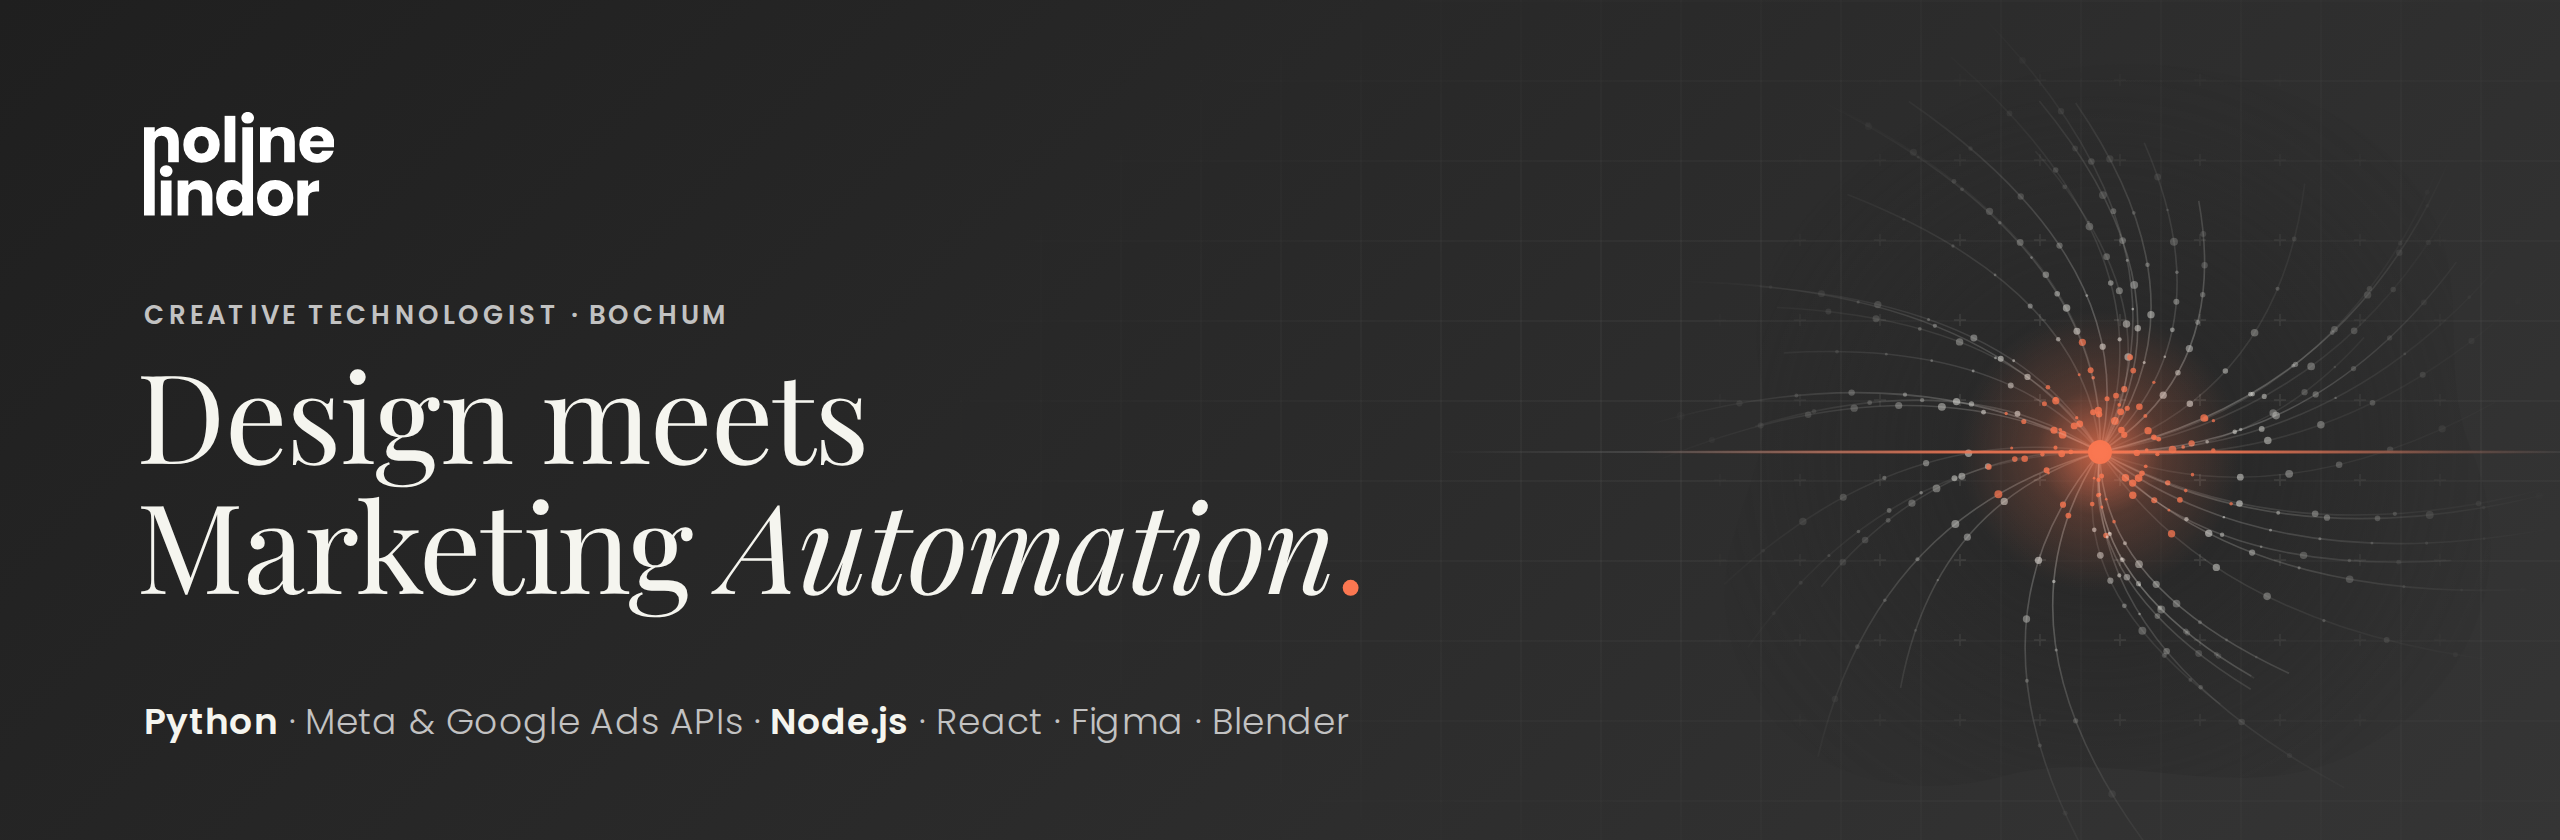
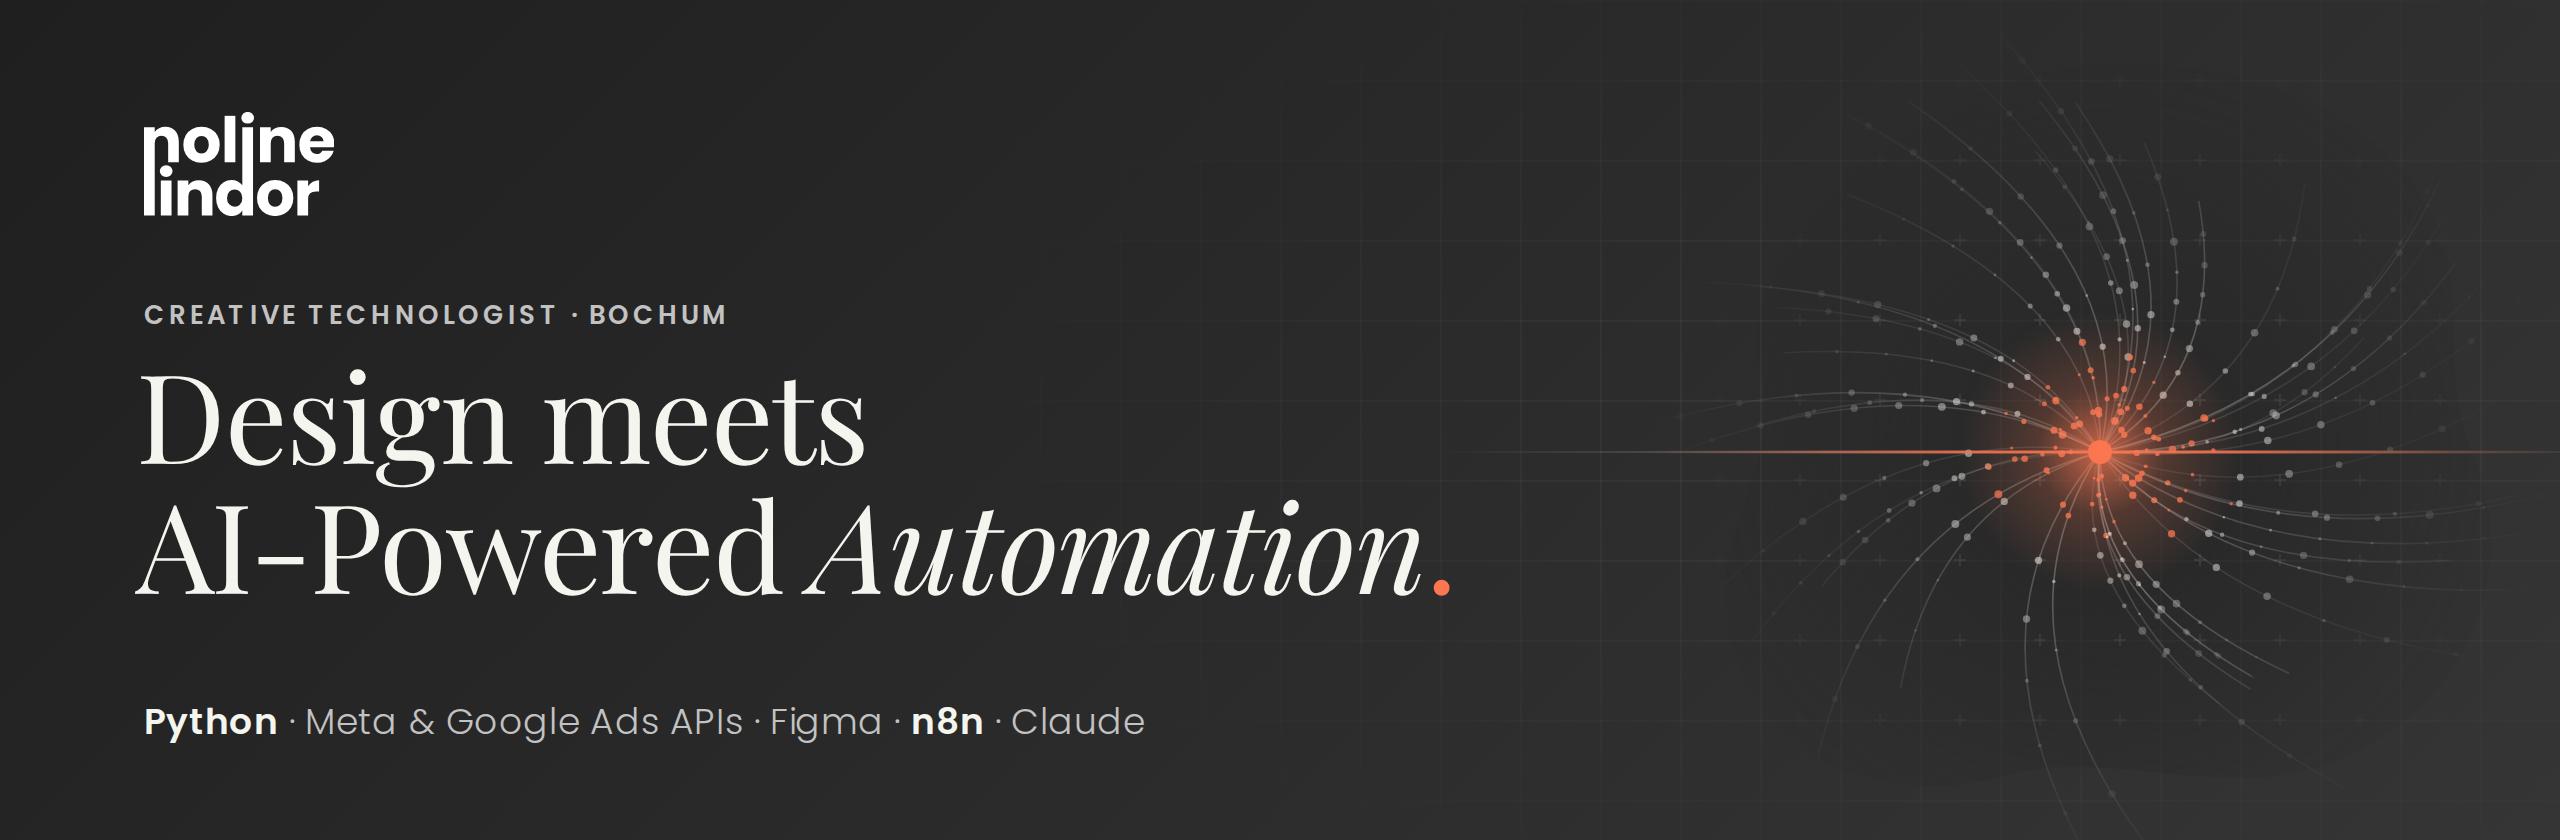
Align with LinkedIn: AI-powered automation tagline, n8n and Claude
Claude-Session: https://claude.ai/code/session_011B9ia6FtYiGRthk6BLN5fP

Changed region(s): [[0.0312, 0.5881, 0.5625, 0.7429], [0.2812, 0.8357, 0.5312, 0.8976]]

diff --git a/README.md b/README.md
@@ -1,8 +1,8 @@
-<img src="assets/banner.png" alt="noline lindor · Design meets Marketing Automation." width="100%">
+<img src="assets/banner.png" alt="noline lindor · Design meets AI-Powered Automation." width="100%">
 
 <br>
 
-I build systems that replace manual marketing work. My background is design, my tool is code: Python automations on the Meta Marketing API, Google Ads Scripts, AI-assisted workflows and dashboards that bring data from several sources into one place. The design side makes sure people can actually work with what I build.
+I build systems that replace manual marketing work. My background is design, my tools are code and AI: Python automations on the Meta Marketing API, Google Ads Scripts, n8n and Claude workflows and dashboards that bring data from several sources into one place. The design side makes sure people can actually work with what I build.
 
 **[Portfolio](https://nolinelindor.com)** &nbsp;·&nbsp; **[LinkedIn](https://www.linkedin.com/in/noline-lindor-43b923213)** &nbsp;·&nbsp; **[Email](mailto:nolinelindor@gmail.com)**
 
@@ -38,7 +38,7 @@ I build systems that replace manual marketing work. My background is design, my 
 ### STACK
 
 **Automation & code** &nbsp; `Python` `JavaScript` `TypeScript` `Node.js` `React` `PostgreSQL` `REST APIs` `Google Ads Scripts`  
-**AI workflows** &nbsp; `Claude` `Cursor` `Agent Skills` `Prompt Engineering`  
+**AI & workflows** &nbsp; `Claude` `n8n` `Cursor` `Agent Skills` `Prompt Engineering`  
 **Marketing tech** &nbsp; `Meta Ads` `Google Ads` `GA4` `Google Tag Manager`  
 **Design** &nbsp; `Figma` `Adobe XD` `InDesign` `Illustrator` `Photoshop` `Blender`
 
